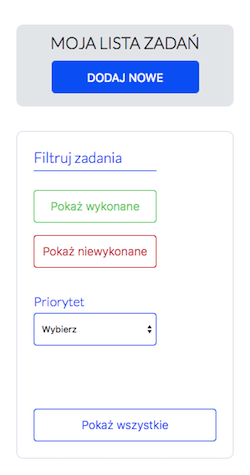
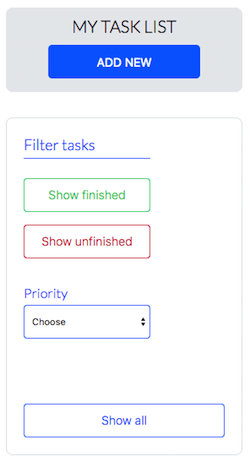
eng version

diff --git a/css/main.css b/css/main.css
@@ -1,3 +1,3 @@
-*{margin:0;padding:0;-webkit-box-sizing:border-box;box-sizing:border-box;outline-style:none;border-color:transparent}body{font-family:'Lato', sans-serif}.container{min-height:100vh;padding:30px 20px;display:-webkit-box;display:-ms-flexbox;display:flex;-webkit-box-pack:start;-ms-flex-pack:start;justify-content:flex-start;-webkit-box-align:center;-ms-flex-align:center;align-items:center;-webkit-box-orient:vertical;-webkit-box-direction:normal;-ms-flex-direction:column;flex-direction:column}@media (min-width: 610px){.container{width:600px;margin:0 auto}}.header{width:100%;height:100px;background:#E8EAED;padding:10px;border-radius:8px;display:-webkit-box;display:-ms-flexbox;display:flex;-webkit-box-orient:vertical;-webkit-box-direction:normal;-ms-flex-direction:column;flex-direction:column;-webkit-box-align:center;-ms-flex-align:center;align-items:center}.header-accordion{position:relative}.header-accordion:after{content:"";display:block;width:100%;height:10px;background-color:#E8EAED;position:absolute;bottom:0;left:0;z-index:10}.header h1{font-weight:300;text-transform:uppercase;font-size:20px;margin-bottom:10px}.header button{display:inline-block;border-radius:5px;height:40px;width:180px;text-transform:uppercase;font-size:14px;-webkit-transition:0.5s all;transition:0.5s all;cursor:pointer}.header button:hover{-webkit-box-shadow:0 5px 6px -3px rgba(0,107,255,0.3);box-shadow:0 5px 6px -3px rgba(0,107,255,0.3)}.btn-dark-blue{background-color:#006BFF;color:white;border:none}.btn-light-blue{border:1px solid #006BFF;background-color:white;color:#006BFF}@media (min-width: 550px){.header{-webkit-box-orient:horizontal;-webkit-box-direction:normal;-ms-flex-direction:row;flex-direction:row;-webkit-box-pack:justify;-ms-flex-pack:justify;justify-content:space-between;padding:10px 30px}.header h1{font-size:25px}}@media (min-width: 600px){.header h1{font-size:28px}}.form{width:100%;border-radius:0 0 8px 8px;position:relative;font-weight:300;overflow:hidden;max-height:0;padding-left:10px;padding-right:10px;-webkit-transition:0.3s ease-out max-height, 0.3s padding;transition:0.3s ease-out max-height, 0.3s padding}.form textarea{display:inline-block;margin-bottom:10px}.priority-box{display:-webkit-box;display:-ms-flexbox;display:flex;-webkit-box-orient:vertical;-webkit-box-direction:normal;-ms-flex-direction:column;flex-direction:column;margin-left:26px}.form label{color:#616161;font-size:15px;position:relative;cursor:pointer}.form label[for="task-input"],.form label[for="date-input"],.form label[for="textarea-input"]{position:absolute;left:-99999px}.form label[for*="-input"]{margin:2px 0}.form input[name="form-priority"]{margin:5px 0 5px 0;opacity:1;position:absolute;left:-23px;top:-2px}.form input[name="form-priority"]:before{content:'';height:6px;width:6px;position:absolute}.form input[name="form-priority"]:after{content:'';height:18px;width:18px;border-radius:50%;border:0.5px solid #616161;background:white;position:absolute;top:-3px;left:-3px;display:block}.form input[name="form-priority"]:checked:before{content:'';height:8px;width:8px;border-radius:50%;border:0.5px solid white;background:white;position:absolute;top:2px;left:2px;opacity:1;z-index:1;display:inline-block}.form input[name="form-priority"]:checked:after{content:'';height:18px;width:18px;border-radius:50%;border:0.5px solid #006BFF;background:#006BFF;position:absolute;top:-3px;left:-3px;display:inline-block}#task-input,#date-input,#textarea-input{margin-top:20px;border-radius:5px;border:1px solid #E1E5EC;-webkit-transition:0.5s all;transition:0.5s all;font-size:14px;font-family:'Lato', sans-serif;color:black;font-weight:300;padding-left:5px}#task-input::-webkit-input-placeholder,#date-input::-webkit-input-placeholder,#textarea-input::-webkit-input-placeholder{color:rgba(97,97,97,0.5)}#task-input:-ms-input-placeholder,#date-input:-ms-input-placeholder,#textarea-input:-ms-input-placeholder{color:rgba(97,97,97,0.5)}#task-input::-ms-input-placeholder,#date-input::-ms-input-placeholder,#textarea-input::-ms-input-placeholder{color:rgba(97,97,97,0.5)}#task-input::placeholder,#date-input::placeholder,#textarea-input::placeholder{color:rgba(97,97,97,0.5)}#task-input:focus,#date-input:focus,#textarea-input:focus{border:1px solid #006BFF;-webkit-box-shadow:0 0 2px #006BFF;box-shadow:0 0 2px #006BFF}#task-input,#date-input{height:35px}#task-input,#textarea-input{width:100%}#textarea-input{height:80px;resize:none}.form p{margin-top:20px;margin-bottom:16px;border-bottom:1px solid #E1E5EC;width:150px;height:26px;color:#616161;font-size:16px}.form-bottom{display:-webkit-box;display:-ms-flexbox;display:flex;-webkit-box-orient:vertical;-webkit-box-direction:normal;-ms-flex-direction:column;flex-direction:column;-webkit-box-align:center;-ms-flex-align:center;align-items:center;min-height:120px}#form-submitBtn{display:inline-block;height:40px;width:180px;border:1px solid #616161;background-color:#616161;color:white;-webkit-transition:0.5s background-color, color, border;transition:0.5s background-color, color, border;font-size:14px;border-radius:5px;text-transform:uppercase;cursor:pointer}#form-submitBtn:active{background-color:white;color:#616161;border:none;-webkit-box-shadow:0 0 5px #616161;box-shadow:0 0 5px #616161}#form-submitBtnfocus{outline:1px solid #616161}#error-message{color:red;font-size:14px;width:100%;min-height:120px;display:-webkit-box;display:-ms-flexbox;display:flex;-webkit-box-pack:start;-ms-flex-pack:start;justify-content:flex-start;-webkit-box-align:start;-ms-flex-align:start;align-items:flex-start;padding:10px}@media (min-width: 400px){.form{padding-left:20px;padding-right:20px}}@media (min-width: 500px){#task-input,#date-input,#textarea-input{font-size:16px}}.filters{width:100%;height:400px;display:-webkit-box;display:-ms-flexbox;display:flex;-webkit-box-orient:vertical;-webkit-box-direction:normal;-ms-flex-direction:column;flex-direction:column;padding:20px;border:1px solid #E1E5EC;border-radius:8px;margin-top:30px}.filters .filters-title{color:#006BFF;font-weight:300;font-size:18px;border-bottom:1px solid #006BFF;width:150px;height:28px}.filters-row-1{height:10%}.filters-row-2{height:75%;display:-webkit-box;display:-ms-flexbox;display:flex;-webkit-box-orient:vertical;-webkit-box-direction:normal;-ms-flex-direction:column;flex-direction:column}.filters-row-3{height:15%;display:-webkit-box;display:-ms-flexbox;display:flex;-webkit-box-pack:start;-ms-flex-pack:start;justify-content:flex-start;-webkit-box-align:end;-ms-flex-align:end;align-items:flex-end}.filters-row-2-btns{height:300px;display:-webkit-box;display:-ms-flexbox;display:flex;-webkit-box-orient:vertical;-webkit-box-direction:normal;-ms-flex-direction:column;flex-direction:column}.filter_priority{height:100%;display:-webkit-box;display:-ms-flexbox;display:flex;-webkit-box-orient:vertical;-webkit-box-direction:normal;-ms-flex-direction:column;flex-direction:column}.filters-priority-title{color:#006BFF;font-weight:300;font-size:16px}.custom-select{width:150px;height:40px;background:transparent;border-radius:4px;font-size:14px;font-weight:100;border:1px solid #006BFF;margin-top:5px}.custom-select select{width:100%;height:100%;background:white}.filters button{width:150px;height:40px;background:white;border-radius:4px;font-size:14px;font-weight:100;-webkit-transition:0.3s all;transition:0.3s all}.filter-done-btn,.filter-undone-btn{margin-top:15px;margin-right:15px}.filter-done-btn{color:#00CF6C;border:1px solid #00CF6C}.filter-done-btn:hover{color:white;background:#00CF6C;-webkit-box-shadow:0 5px 6px -3px rgba(0,207,108,0.3);box-shadow:0 5px 6px -3px rgba(0,207,108,0.3)}.filter-done-btn:active{background:#03ff86}.filter-undone-btn{color:#D4002E;border:1px solid #D4002E}.filter-undone-btn:hover{color:white;background:#D4002E;-webkit-box-shadow:0 5px 6px -3px rgba(212,0,46,0.3);box-shadow:0 5px 6px -3px rgba(212,0,46,0.3)}.filter-undone-btn:active{background:#ff083e}.filters .filters-reset{width:320px;color:#006BFF;border:1px solid #006BFF}.filters .filters-reset:hover{color:white;background:#006BFF;-webkit-box-shadow:0 5px 6px -3px rgba(0,107,255,0.3);box-shadow:0 5px 6px -3px rgba(0,107,255,0.3)}.filters .filters-reset:active{background:#3389ff}@media (min-width: 400px){.filters-row-3{-webkit-box-pack:center;-ms-flex-pack:center;justify-content:center}}@media (min-width: 450px){.filters{height:350px}.filters-row-1{height:15%}.filters-row-2{height:65%}.filters-row-3{height:20%}.filters-row-2-btns{height:130px;-webkit-box-orient:horizontal;-webkit-box-direction:normal;-ms-flex-direction:row;flex-direction:row;-webkit-box-pack:start;-ms-flex-pack:start;justify-content:flex-start}}@media (min-width: 600px){.filters .filters-title{font-size:19px}.filters-row-2{-webkit-box-orient:horizontal;-webkit-box-direction:normal;-ms-flex-direction:row;flex-direction:row;-webkit-box-pack:justify;-ms-flex-pack:justify;justify-content:space-between}.filter-done-btn,.filter-undone-btn{margin-top:25px}.filters{height:300px}}.list{width:100%;display:-webkit-box;display:-ms-flexbox;display:flex;-webkit-box-orient:vertical;-webkit-box-direction:normal;-ms-flex-direction:column;flex-direction:column;padding:20px 10px;border:1px solid #E1E5EC;border-radius:8px;margin-top:30px}.list button{width:150px;height:40px;background:white;border-radius:4px;font-size:14px;font-weight:100;-webkit-transition:0.3s all;transition:0.3s all}.taskList{margin:30px 0 50px 0}.taskList-title{color:#006BFF;font-weight:300;font-size:18px;border-bottom:1px solid #006BFF;width:150px;height:28px;margin-left:10px}.taskList li button{width:30px;height:35px;color:transparent}.taskList li{list-style:none}.taskList li .task-delete{border:1px solid #D4002E;position:relative;-webkit-transition:0.3s all;transition:0.3s all}.taskList li .task-delete .fa-minus{position:absolute;color:#D4002E;left:50%;bottom:50%;-webkit-transform:translate(-50%, 60%);transform:translate(-50%, 60%)}.taskList li .task-delete:hover{background:#D4002E;-webkit-box-shadow:0 5px 6px -3px rgba(212,0,46,0.3);box-shadow:0 5px 6px -3px rgba(212,0,46,0.3)}.taskList li .task-delete:hover .fa-minus{color:white}.taskList li .task-delete:active{background:#ff083e}.taskList li .task-complete{border:1px solid #00CF6C;position:relative;-webkit-transition:0.3s all;transition:0.3s all;margin-right:5px}.taskList li .task-complete .fa-check{position:absolute;color:#00CF6C;left:50%;bottom:50%;-webkit-transform:translate(-50%, 40%);transform:translate(-50%, 40%)}.taskList li .task-complete:hover{background:#00CF6C;-webkit-box-shadow:0 5px 6px -3px rgba(0,207,108,0.3);box-shadow:0 5px 6px -3px rgba(0,207,108,0.3)}.taskList li .task-complete:hover .fa-check{color:white}.taskList li .task-complete:active{background:#03ff86}.taskList li .task-show{position:relative;border:1px solid #d1d7e2;-webkit-transition:0.3s all;transition:0.3s all;margin-right:5px}.taskList li .task-show .task-show-dots{color:#616161;font-weight:900;display:block;position:absolute;left:50%;bottom:50%;-webkit-transform:translate(-50%, 30%);transform:translate(-50%, 30%)}.taskList li .task-show:hover{background:#E1E5EC;-webkit-box-shadow:0 5px 6px -3px rgba(225,229,236,0.5);box-shadow:0 5px 6px -3px rgba(225,229,236,0.5)}.taskList li .task-show:hover .task-show-dots{color:white}.taskList li .task-show:active{background:#7b7b7b}.task-head-panel{height:60px;display:-webkit-box;display:-ms-flexbox;display:flex;-webkit-box-pack:justify;-ms-flex-pack:justify;justify-content:space-between;-webkit-box-align:center;-ms-flex-align:center;align-items:center}.task-descr-panel{max-height:0;overflow:hidden;-webkit-transition:max-height 0.2s ease-out;transition:max-height 0.2s ease-out}.accordion-list-active{-webkit-transition:0.3s;transition:0.3s}.task-description{display:-webkit-box;display:-ms-flexbox;display:flex;-webkit-box-pack:start;-ms-flex-pack:start;justify-content:flex-start;-webkit-box-align:center;-ms-flex-align:center;align-items:center;-ms-flex-wrap:wrap;flex-wrap:wrap;margin:10px 15% 10px 7%;padding:10px}.task-name{font-size:15px;font-weight:400}.task-date{font-size:12px;font-weight:300}.task-priority{font-size:17px;color:#006BFF;font-weight:700;margin-right:10px}.li-col-1,.li-col-3,.li-col-4,.li-col-5{max-width:15%}.li-col-2{width:40%;display:-webkit-box;display:-ms-flexbox;display:flex;-webkit-box-orient:vertical;-webkit-box-direction:normal;-ms-flex-direction:column;flex-direction:column;-webkit-box-flex:1;-ms-flex-positive:1;flex-grow:1;border-bottom:1px solid #E1E5EC}.li-col-2 .first-row{display:-webkit-box;display:-ms-flexbox;display:flex;-webkit-box-pack:justify;-ms-flex-pack:justify;justify-content:space-between}.task-description{font-size:14px;font-weight:300;margin:5px 0 5px 26px}.task-id{display:none}.li-remove-btns{display:-webkit-box;display:-ms-flexbox;display:flex;-webkit-box-orient:vertical;-webkit-box-direction:normal;-ms-flex-direction:column;flex-direction:column;margin-top:10px;margin-left:10px}.removeFinishedBtn,.removeAllBtn{color:#D4002E;border:1px solid #D4002E;overflow:hidden}.removeFinishedBtn:hover,.removeAllBtn:hover{color:white;background:#D4002E;-webkit-box-shadow:0 5px 6px -3px rgba(212,0,46,0.3);box-shadow:0 5px 6px -3px rgba(212,0,46,0.3)}.removeFinishedBtn:active,.removeAllBtn:active{background:#ff083e}.removeFinishedBtn{margin-bottom:10px}.done .li-col-2,.done .li-col-3 .task-priority{color:rgba(0,0,0,0.2)}@media (min-width: 400px){.list{padding-left:20px;padding-right:20px}.taskList-title{margin-left:0}}@media (min-width: 450px){.li-remove-btns{margin-left:0}.li-remove-btns{-webkit-box-orient:horizontal;-webkit-box-direction:normal;-ms-flex-direction:row;flex-direction:row;-webkit-box-pack:justify;-ms-flex-pack:justify;justify-content:space-between}}@media (min-width: 500px){.task-name{font-size:16px}.task-date{font-size:13px}}@media (min-width: 550px){.task-name{font-size:17px}}@media (min-width: 600px){.taskList-title{font-size:19px}.taskList li button{width:40px;height:40px}}.accordion{display:block;padding-top:10px;padding-bottom:10px;border:1px solid #E1E5EC}.hidden{display:none}li.hidden-always{display:none}
+*{margin:0;padding:0;-webkit-box-sizing:border-box;box-sizing:border-box;outline-style:none;border-color:transparent}body{font-family:'Lato', sans-serif}.container{min-height:100vh;padding:30px 20px;display:-webkit-box;display:-ms-flexbox;display:flex;-webkit-box-pack:start;-ms-flex-pack:start;justify-content:flex-start;-webkit-box-align:center;-ms-flex-align:center;align-items:center;-webkit-box-orient:vertical;-webkit-box-direction:normal;-ms-flex-direction:column;flex-direction:column}@media (min-width: 610px){.container{width:600px;margin:0 auto}}.header{width:100%;height:100px;background:#E8EAED;padding:10px;border-radius:8px;display:-webkit-box;display:-ms-flexbox;display:flex;-webkit-box-orient:vertical;-webkit-box-direction:normal;-ms-flex-direction:column;flex-direction:column;-webkit-box-align:center;-ms-flex-align:center;align-items:center}.header-accordion{position:relative}.header-accordion:after{content:"";display:block;width:100%;height:10px;background-color:#E8EAED;position:absolute;bottom:0;left:0;z-index:10}.header h1{font-weight:300;text-transform:uppercase;font-size:20px;margin-bottom:10px}.header button{display:inline-block;border-radius:5px;height:40px;width:180px;text-transform:uppercase;font-size:14px;-webkit-transition:0.5s all;transition:0.5s all;cursor:pointer}.header button:hover{-webkit-box-shadow:0 5px 6px -3px rgba(0,107,255,0.3);box-shadow:0 5px 6px -3px rgba(0,107,255,0.3)}.btn-dark-blue{background-color:#006BFF;color:white;border:none}.btn-light-blue{border:1px solid #006BFF;background-color:white;color:#006BFF}@media (min-width: 550px){.header{-webkit-box-orient:horizontal;-webkit-box-direction:normal;-ms-flex-direction:row;flex-direction:row;-webkit-box-pack:justify;-ms-flex-pack:justify;justify-content:space-between;padding:10px 30px}.header h1{font-size:25px}}@media (min-width: 600px){.header h1{font-size:28px}}.form{width:100%;border-radius:0 0 8px 8px;position:relative;font-weight:300;overflow:hidden;max-height:0;padding-left:10px;padding-right:10px;-webkit-transition:0.3s ease-out max-height, 0.3s padding;transition:0.3s ease-out max-height, 0.3s padding}.form textarea{display:inline-block;margin-bottom:10px}.priority-box{display:-webkit-box;display:-ms-flexbox;display:flex;-webkit-box-orient:vertical;-webkit-box-direction:normal;-ms-flex-direction:column;flex-direction:column;margin-left:26px}.form label{color:#616161;font-size:15px;position:relative;cursor:pointer}.form label[for="task-input"],.form label[for="date-input"],.form label[for="textarea-input"]{position:absolute;left:-99999px}.form label[for*="-input"]{margin:2px 0}.form input[name="form-priority"]{margin:5px 0 5px 0;opacity:1;position:absolute;left:-23px;top:-2px}.form input[name="form-priority"]:before{content:'';height:6px;width:6px;position:absolute}.form input[name="form-priority"]:after{content:'';height:18px;width:18px;border-radius:50%;border:0.5px solid #616161;background:white;position:absolute;top:-3px;left:-3px;display:block}.form input[name="form-priority"]:checked:before{content:'';height:8px;width:8px;border-radius:50%;border:0.5px solid white;background:white;position:absolute;top:2px;left:2px;opacity:1;z-index:1;display:inline-block}.form input[name="form-priority"]:checked:after{content:'';height:18px;width:18px;border-radius:50%;border:0.5px solid #006BFF;background:#006BFF;position:absolute;top:-3px;left:-3px;display:inline-block}#task-input,#date-input,#textarea-input{margin-top:20px;border-radius:5px;border:1px solid #E1E5EC;-webkit-transition:0.5s all;transition:0.5s all;font-size:14px;font-family:'Lato', sans-serif;color:black;font-weight:300;padding-left:5px}#task-input::-webkit-input-placeholder,#date-input::-webkit-input-placeholder,#textarea-input::-webkit-input-placeholder{color:rgba(97,97,97,0.5)}#task-input:-ms-input-placeholder,#date-input:-ms-input-placeholder,#textarea-input:-ms-input-placeholder{color:rgba(97,97,97,0.5)}#task-input::-ms-input-placeholder,#date-input::-ms-input-placeholder,#textarea-input::-ms-input-placeholder{color:rgba(97,97,97,0.5)}#task-input::placeholder,#date-input::placeholder,#textarea-input::placeholder{color:rgba(97,97,97,0.5)}#task-input:focus,#date-input:focus,#textarea-input:focus{border:1px solid #006BFF;-webkit-box-shadow:0 0 2px #006BFF;box-shadow:0 0 2px #006BFF}#task-input,#date-input{height:35px}#task-input,#textarea-input{width:100%}#textarea-input{height:80px;resize:none}.form p{margin-top:20px;margin-bottom:16px;border-bottom:1px solid #E1E5EC;width:150px;height:26px;color:#616161;font-size:16px}.form-bottom{display:-webkit-box;display:-ms-flexbox;display:flex;-webkit-box-orient:vertical;-webkit-box-direction:normal;-ms-flex-direction:column;flex-direction:column;-webkit-box-align:center;-ms-flex-align:center;align-items:center;min-height:120px}#form-submitBtn{display:inline-block;height:40px;width:180px;border:1px solid #616161;background-color:#616161;color:white;-webkit-transition:0.5s background-color, color, border;transition:0.5s background-color, color, border;font-size:14px;border-radius:5px;text-transform:uppercase;cursor:pointer}#form-submitBtn:active{background-color:white;color:#616161;border:none;-webkit-box-shadow:0 0 5px #616161;box-shadow:0 0 5px #616161}#form-submitBtnfocus{outline:1px solid #616161}#error-message{color:red;font-size:14px;width:100%;min-height:120px;display:-webkit-box;display:-ms-flexbox;display:flex;-webkit-box-pack:start;-ms-flex-pack:start;justify-content:flex-start;-webkit-box-align:start;-ms-flex-align:start;align-items:flex-start;padding:10px}@media (min-width: 400px){.form{padding-left:20px;padding-right:20px}}@media (min-width: 500px){#task-input,#date-input,#textarea-input{font-size:16px}}.filters{width:100%;height:400px;display:-webkit-box;display:-ms-flexbox;display:flex;-webkit-box-orient:vertical;-webkit-box-direction:normal;-ms-flex-direction:column;flex-direction:column;padding:20px;border:1px solid #E1E5EC;border-radius:8px;margin-top:30px}.filters .filters-title{color:#006BFF;font-weight:300;font-size:18px;border-bottom:1px solid #006BFF;width:150px;height:28px}.filters-row-1{height:10%}.filters-row-2{height:75%;display:-webkit-box;display:-ms-flexbox;display:flex;-webkit-box-orient:vertical;-webkit-box-direction:normal;-ms-flex-direction:column;flex-direction:column}.filters-row-3{height:15%;display:-webkit-box;display:-ms-flexbox;display:flex;-webkit-box-pack:start;-ms-flex-pack:start;justify-content:flex-start;-webkit-box-align:end;-ms-flex-align:end;align-items:flex-end}.filters-row-2-btns{height:300px;display:-webkit-box;display:-ms-flexbox;display:flex;-webkit-box-orient:vertical;-webkit-box-direction:normal;-ms-flex-direction:column;flex-direction:column}.filter_priority{height:100%;display:-webkit-box;display:-ms-flexbox;display:flex;-webkit-box-orient:vertical;-webkit-box-direction:normal;-ms-flex-direction:column;flex-direction:column}.filters-priority-title{color:#006BFF;font-weight:300;font-size:16px}.custom-select{width:150px;height:40px;background:transparent;border-radius:4px;font-size:14px;font-weight:100;border:1px solid #006BFF;margin-top:5px}.custom-select select{width:100%;height:100%;background:white}.filters button{width:150px;height:40px;background:white;border-radius:4px;font-size:14px;font-weight:100;-webkit-transition:0.3s all;transition:0.3s all}.filter-done-btn,.filter-undone-btn{margin-top:15px;margin-right:15px}.filter-done-btn{color:#00CF6C;border:1px solid #00CF6C}.filter-done-btn:hover{color:white;background:#00CF6C;-webkit-box-shadow:0 5px 6px -3px rgba(0,207,108,0.3);box-shadow:0 5px 6px -3px rgba(0,207,108,0.3)}.filter-done-btn:active{background:#03ff86}.filter-undone-btn{color:#D4002E;border:1px solid #D4002E}.filter-undone-btn:hover{color:white;background:#D4002E;-webkit-box-shadow:0 5px 6px -3px rgba(212,0,46,0.3);box-shadow:0 5px 6px -3px rgba(212,0,46,0.3)}.filter-undone-btn:active{background:#ff083e}.filters .filters-reset{width:320px;color:#006BFF;border:1px solid #006BFF}.filters .filters-reset:hover{color:white;background:#006BFF;-webkit-box-shadow:0 5px 6px -3px rgba(0,107,255,0.3);box-shadow:0 5px 6px -3px rgba(0,107,255,0.3)}.filters .filters-reset:active{background:#3389ff}@media (min-width: 400px){.filters-row-3{-webkit-box-pack:center;-ms-flex-pack:center;justify-content:center}}@media (min-width: 450px){.filters{height:350px}.filters-row-1{height:15%}.filters-row-2{height:65%}.filters-row-3{height:20%}.filters-row-2-btns{height:130px;-webkit-box-orient:horizontal;-webkit-box-direction:normal;-ms-flex-direction:row;flex-direction:row;-webkit-box-pack:start;-ms-flex-pack:start;justify-content:flex-start}}@media (min-width: 600px){.filters .filters-title{font-size:19px}.filters-row-2{-webkit-box-orient:horizontal;-webkit-box-direction:normal;-ms-flex-direction:row;flex-direction:row;-webkit-box-pack:justify;-ms-flex-pack:justify;justify-content:space-between}.filter-done-btn,.filter-undone-btn{margin-top:25px}.filters{height:300px}}.list{width:100%;display:-webkit-box;display:-ms-flexbox;display:flex;-webkit-box-orient:vertical;-webkit-box-direction:normal;-ms-flex-direction:column;flex-direction:column;padding:20px 10px;border:1px solid #E1E5EC;border-radius:8px;margin-top:30px}.list button{width:150px;height:40px;background:white;border-radius:4px;font-size:14px;font-weight:100;-webkit-transition:0.3s all;transition:0.3s all}.taskList{margin:30px 0 50px 0}.taskList-title{color:#006BFF;font-weight:300;font-size:18px;border-bottom:1px solid #006BFF;width:150px;height:28px;margin-left:10px}.taskList li button{width:30px;height:35px;color:transparent}.taskList li{list-style:none}.taskList li .task-delete{border:1px solid #D4002E;position:relative;-webkit-transition:0.3s all;transition:0.3s all}.taskList li .task-delete .fa-minus{position:absolute;color:#D4002E;left:50%;bottom:50%;-webkit-transform:translate(-50%, 60%);transform:translate(-50%, 60%)}.taskList li .task-delete:hover{background:#D4002E;-webkit-box-shadow:0 5px 6px -3px rgba(212,0,46,0.3);box-shadow:0 5px 6px -3px rgba(212,0,46,0.3)}.taskList li .task-delete:hover .fa-minus{color:white}.taskList li .task-delete:active{background:#ff083e}.taskList li .task-complete{border:1px solid #00CF6C;position:relative;-webkit-transition:0.3s all;transition:0.3s all;margin-right:5px}.taskList li .task-complete .fa-check{position:absolute;color:#00CF6C;left:50%;bottom:50%;-webkit-transform:translate(-50%, 40%);transform:translate(-50%, 40%)}.taskList li .task-complete:hover{background:#00CF6C;-webkit-box-shadow:0 5px 6px -3px rgba(0,207,108,0.3);box-shadow:0 5px 6px -3px rgba(0,207,108,0.3)}.taskList li .task-complete:hover .fa-check{color:white}.taskList li .task-complete:active{background:#03ff86}.taskList li .task-show{position:relative;border:1px solid #d1d7e2;-webkit-transition:0.3s all;transition:0.3s all;margin-right:5px}.taskList li .task-show .task-show-dots{color:#616161;font-weight:900;display:block;position:absolute;left:50%;bottom:50%;-webkit-transform:translate(-50%, 30%);transform:translate(-50%, 30%)}.taskList li .task-show:hover{background:#E1E5EC;-webkit-box-shadow:0 5px 6px -3px rgba(225,229,236,0.5);box-shadow:0 5px 6px -3px rgba(225,229,236,0.5)}.taskList li .task-show:hover .task-show-dots{color:white}.taskList li .task-show:active{background:#7b7b7b}.task-head-panel{height:60px;display:-webkit-box;display:-ms-flexbox;display:flex;-webkit-box-pack:justify;-ms-flex-pack:justify;justify-content:space-between;-webkit-box-align:center;-ms-flex-align:center;align-items:center}.task-descr-panel{max-height:0;overflow:hidden;-webkit-transition:max-height 0.2s ease-out;transition:max-height 0.2s ease-out}.accordion-list-active{-webkit-transition:0.3s;transition:0.3s}.task-description{display:-webkit-box;display:-ms-flexbox;display:flex;-webkit-box-pack:start;-ms-flex-pack:start;justify-content:flex-start;-webkit-box-align:center;-ms-flex-align:center;align-items:center;-ms-flex-wrap:wrap;flex-wrap:wrap;padding:10px;font-size:14px;font-weight:300;margin:5px 0 5px 26px}.task-name{font-size:15px;font-weight:400}.task-date{font-size:12px;font-weight:300}.task-priority{font-size:17px;color:#006BFF;font-weight:700;margin-right:10px}.li-col-1,.li-col-3,.li-col-4,.li-col-5{max-width:15%}.li-col-2{width:40%;display:-webkit-box;display:-ms-flexbox;display:flex;-webkit-box-orient:vertical;-webkit-box-direction:normal;-ms-flex-direction:column;flex-direction:column;-webkit-box-flex:1;-ms-flex-positive:1;flex-grow:1;border-bottom:1px solid #E1E5EC}.li-col-2 .first-row{display:-webkit-box;display:-ms-flexbox;display:flex;-webkit-box-pack:justify;-ms-flex-pack:justify;justify-content:space-between}.task-id{display:none}.li-remove-btns{display:-webkit-box;display:-ms-flexbox;display:flex;-webkit-box-orient:vertical;-webkit-box-direction:normal;-ms-flex-direction:column;flex-direction:column;margin-top:10px;margin-left:10px}.removeFinishedBtn,.removeAllBtn{color:#D4002E;border:1px solid #D4002E;overflow:hidden}.removeFinishedBtn:hover,.removeAllBtn:hover{color:white;background:#D4002E;-webkit-box-shadow:0 5px 6px -3px rgba(212,0,46,0.3);box-shadow:0 5px 6px -3px rgba(212,0,46,0.3)}.removeFinishedBtn:active,.removeAllBtn:active{background:#ff083e}.removeFinishedBtn{margin-bottom:10px}.done .li-col-2,.done .li-col-3 .task-priority{color:rgba(0,0,0,0.2)}@media (min-width: 400px){.list{padding-left:20px;padding-right:20px}.taskList-title{margin-left:0}}@media (min-width: 450px){.li-remove-btns{margin-left:0}.li-remove-btns{-webkit-box-orient:horizontal;-webkit-box-direction:normal;-ms-flex-direction:row;flex-direction:row;-webkit-box-pack:justify;-ms-flex-pack:justify;justify-content:space-between}}@media (min-width: 500px){.task-name{font-size:16px}.task-date{font-size:13px}}@media (min-width: 550px){.task-name{font-size:17px}}@media (min-width: 600px){.taskList-title{font-size:19px}.taskList li button{width:40px;height:40px}.task-description{padding:10px 20px}}.accordion{display:block;padding-top:10px;padding-bottom:10px;border:1px solid #E1E5EC}.hidden{display:none}li.hidden-always{display:none}
 
 /*# sourceMappingURL=main.css.map */

diff --git a/js/app.js b/js/app.js
@@ -54,9 +54,9 @@ document.addEventListener('DOMContentLoaded', function() {
 
     // ----- odświeżenie eventów na wszystkich buttonach -----
     function findAllBtns() {
-            findCompleteTaskBtns();
-            findDeleteBtns();
-            findShowDescrBtns();
+        findCompleteTaskBtns();
+        findDeleteBtns();
+        findShowDescrBtns();
     }
 
     // ----- przekazanie tablicy obiektów do stworzenia listy w html -----
@@ -110,7 +110,7 @@ document.addEventListener('DOMContentLoaded', function() {
         let textAreaInput = document.querySelector('#textarea-input');
 
         let error = document.querySelector('#error-message');
-        error.innerText = '';   //musi zostać, believe me :) w razie wątpliwości służę wyjaśnieniem
+        error.innerText = '';
         let formValid = true;
 
         let taskPriority;
@@ -127,12 +127,12 @@ document.addEventListener('DOMContentLoaded', function() {
 
         if (taskInput.value.length <= 0) {
             formValid = false;
-            error.innerText += '- wpisz tytuł zadania \n';
+            error.innerText += "- enter a task's title \n";
         }
 
         if (taskInput.value.length > 25) {
             formValid = false;
-            error.innerText += '- tytuł zadania nie może być dłuższy niż 25 znaków  \n';
+            error.innerText += "- a title can't be longer than 25 characters \n";
         }
 
 
@@ -146,7 +146,7 @@ document.addEventListener('DOMContentLoaded', function() {
             }
         }
         if (checkboxCheckedNumber === 0) {
-            error.innerText += '- wybierz priorytet \n';
+            error.innerText += '- please choose priority \n';
             formValid = false;
         }
 
@@ -155,14 +155,13 @@ document.addEventListener('DOMContentLoaded', function() {
 
         if (textAreaInput.value.length > 100) {
             formValid = false;
-            error.innerText += '- opis zadania nie może być dłuższy niż 100 znaków \n';
+            error.innerText += "- a task's description can't be longer than 100 characters \n";
         }
 
 
         //JESLI WALIDACJA JEST OK, uruchom funkcje:
 
         if(formValid) {
-
             createNewTaskObject(getTaskId, taskInput.value, dateInput.value, textAreaInput.value, taskPriority);
 
             closeForm();
@@ -214,15 +213,12 @@ document.addEventListener('DOMContentLoaded', function() {
         newArrToLS.push(newTaskObject);
 
         addArrayToLS(newArrToLS);
-
     }
 
 
     //=========================================================
     // ------- BUTTONY - usuwanie pojedynczych tasków --------
 
-
-    // nałożenie eventu usuwania na buttony (funkcja odpalana po każdym odświeżeniu listy z LS)
 
     function findDeleteBtns() {
 
@@ -248,7 +244,6 @@ document.addEventListener('DOMContentLoaded', function() {
         let newArrToLS = taskArray.slice();
 
         for (let j = 0; j < newArrToLS.length; j++) {
-
             if (newArrToLS[j].taskId === id.innerText) {
                 newArrToLS.splice(j, 1);
 
@@ -264,8 +259,6 @@ document.addEventListener('DOMContentLoaded', function() {
     //--------- BUTTONY - oznaczanie wykonanych ------------
 
 
-    // nałożenie eventu wykonania na buttony (funkcja odpalana po każdym odświeżeniu listy z LS)
-
     function findCompleteTaskBtns() {
         let completeTaskBtns = document.querySelectorAll('.task-complete');
 
@@ -277,7 +270,6 @@ document.addEventListener('DOMContentLoaded', function() {
     function markAsCompleted() {
 
         let taskId = this.parentElement.parentElement.parentElement.querySelector('.task-id');
-
         let taskArray = parseJsonFromLS();
 
         //kopia tablicy pobranej z LS
@@ -327,7 +319,6 @@ document.addEventListener('DOMContentLoaded', function() {
     priorities.addEventListener('change', function () {
 
         let priorityOption = this.value.charAt(this.value.length - 1);
-
         let allTasks = taskList.querySelectorAll('li');
 
         if (this.value !== "filter-all") {
@@ -352,9 +343,7 @@ document.addEventListener('DOMContentLoaded', function() {
     }
 
     function showAllTasks (arr) {
-
         for (let i = 0; i < arr.length; i++) {
-
             arr[i].classList.remove('hidden');
         }
     }
@@ -367,11 +356,9 @@ document.addEventListener('DOMContentLoaded', function() {
         let tasks = taskList.querySelectorAll('li');
 
         for (let i = 0; i < tasks.length; i++) {
-
             tasks[i].classList.contains('done') ?
                 tasks[i].classList.remove('hidden') :
                 tasks[i].classList.add('hidden');
-
         }
     });
 
@@ -383,11 +370,9 @@ document.addEventListener('DOMContentLoaded', function() {
         let tasks = taskList.querySelectorAll('li');
 
         for (let i = 0; i < tasks.length; i++) {
-
             tasks[i].classList.contains('done') ?
                 tasks[i].classList.add('hidden') :
                 tasks[i].classList.remove('hidden');
-
         }
     });
 
@@ -398,11 +383,9 @@ document.addEventListener('DOMContentLoaded', function() {
         let tasks = taskList.querySelectorAll('li');
 
         for (let i = 0; i < tasks.length; i++) {
-
             if (tasks[i].classList.contains('hidden')) {
                 tasks[i].classList.remove('hidden');
             }
-
         }
         filterPriorityForm.reset();
     });
@@ -416,7 +399,6 @@ document.addEventListener('DOMContentLoaded', function() {
         let newArrToLS = [];
         addArrayToLS(newArrToLS);
         //przekazuję pustą tablicę do LS i ona jest wczytywana do html
-
     });
 
     //===============================================
@@ -462,9 +444,9 @@ document.addEventListener('DOMContentLoaded', function() {
     }
 
     function changeBtnTxt(btnName) {
-        btnName.innerText = btnName.innerText === "DODAJ NOWE" ?
-            "Zwiń formularz" :
-            "Dodaj nowe"
+        btnName.innerText = btnName.innerText === "ADD NEW" ?
+            "Hide form" :
+            "Add new"
     }
 
     function changeBtnClass(btnName) {

diff --git a/index.html b/index.html
@@ -14,49 +14,49 @@
     <div class="container">
 
         <header class="header">
-            <h1>Moja lista zadań</h1>
-            <button id="addNewTaskBtn" class="btn-dark-blue">Dodaj nowe</button>
+            <h1>My task list</h1>
+            <button id="addNewTaskBtn" class="btn-dark-blue">Add new</button>
         </header>
 
         <section class="form">
 
             <form action="" id="form">
 
-                <label for="task-input">Temat</label>
-                <input type="text" name="form-task" id="task-input" placeholder="Temat">
+                <label for="task-input">Title</label>
+                <input type="text" name="form-task" id="task-input" placeholder="Title">
 
-                <label for="date-input">Termin</label>
-                <input type="date" name="form-date" id="date-input" placeholder="Termin" required>
+                <label for="date-input">Date</label>
+                <input type="date" name="form-date" id="date-input" placeholder="Date" required>
 
-                <p>Wybierz priorytet</p>
+                <p>Priority</p>
                 <div class="priority-box">
                     <label for="p1-input">
                         <input type="radio" name="form-priority" value="1" id="p1-input">
-                        Priorytet 1
+                        1
                     </label>
                     <label for="p2-input">
                         <input type="radio" name="form-priority" value="2" id="p2-input">
-                        Priorytet 2
+                        2
                     </label>
                     <label for="p3-input">
                         <input type="radio" name="form-priority" value="3" id="p3-input">
-                        Priorytet 3
+                        3
                     </label>
                     <label for="p4-input">
                         <input type="radio" name="form-priority" value="4" id="p4-input">
-                        Priorytet 4
+                        4
                     </label>
                     <label for="p5-input">
                         <input type="radio" name="form-priority" value="5" id="p5-input">
-                        Priorytet 5
+                        5
                     </label>
                 </div>
 
-                <label for="textarea-input">Opis zadania</label>
-                <textarea name="form-description" cols="100" rows="3" id="textarea-input" placeholder="Opis zadania"></textarea>
+                <label for="textarea-input">Task description</label>
+                <textarea name="form-description" cols="100" rows="3" id="textarea-input" placeholder="Task description"></textarea>
 
                 <div class="form-bottom">
-                    <button id="form-submitBtn" type="submit">Zapisz zadanie</button>
+                    <button id="form-submitBtn" type="submit">Save</button>
                     <div id="error-message"></div>
                 </div>
 
@@ -66,21 +66,21 @@
         <section class="filters">
 
             <div class="filters-row-1">
-                <h2 class="filters-title">Filtruj zadania</h2>
+                <h2 class="filters-title">Filter tasks</h2>
             </div>
 
             <div class="filters-row-2">
                 <div class="filters-row-2-btns">
-                    <button type="button" id="filter-done-btn" class="filter-done-btn">Pokaż wykonane</button>
-                    <button type="button" id="filter-undone-btn" class="filter-undone-btn">Pokaż niewykonane</button>
+                    <button type="button" id="filter-done-btn" class="filter-done-btn">Show finished</button>
+                    <button type="button" id="filter-undone-btn" class="filter-undone-btn">Show unfinished</button>
                 </div>
 
                 <form action="" id="filter_priority" class="filter_priority">
-                    <label class="filters-priority-title">Priorytet</label>
+                    <label class="filters-priority-title">Priority</label>
 
                     <div class="custom-select">
                         <select name="filter-priority">
-                            <option value="filter-all">Wybierz</option>
+                            <option value="filter-all">Choose</option>
                             <option value="filter-p1">1</option>
                             <option value="filter-p2">2</option>
                             <option value="filter-p3">3</option>
@@ -92,12 +92,12 @@
             </div>
 
             <div class="filters-row-3">
-                <button type="button" id="filters-reset" class="filters-reset">Pokaż wszystkie</button>
+                <button type="button" id="filters-reset" class="filters-reset">Show all</button>
             </div>
         </section>
 
         <section class="list">
-            <h2 id="taskList-title" class="taskList-title">Zadania</h2>
+            <h2 id="taskList-title" class="taskList-title">Tasks</h2>
 
             <ul class="hidden-always">
                 <li id="liToClone" class="hidden-always">
@@ -106,7 +106,6 @@
 
                         <div class="li-col-1">
                             <button class="task-show">
-                                Pokaż szczegóły
                                 <span class="task-show-dots">...</span>
                             </button>
                         </div>
@@ -151,8 +150,8 @@
 
 
             <div class="li-remove-btns">
-                <button id="removeFinishedBtn" class="removeFinishedBtn">Usuń zakończone zadania</button>
-                <button id="removeAllBtn" class="removeAllBtn">Usuń wszystkie zadania</button>
+                <button id="removeFinishedBtn" class="removeFinishedBtn">Delete<br>finished tasks</button>
+                <button id="removeAllBtn" class="removeAllBtn">Delete<br>all tasks</button>
             </div>
         </section>
     </div>

diff --git a/scss/_list.scss b/scss/_list.scss
@@ -151,8 +151,10 @@
   justify-content: flex-start;
   align-items: center;
   flex-wrap: wrap;
-  margin: 10px 15% 10px 7%;
   padding: 10px;
+  font-size: 14px;
+  font-weight: 300;
+  margin: 5px 0 5px 26px;
 }
 
 
@@ -194,12 +196,6 @@
     display: flex;
     justify-content: space-between;
   }
-}
-
-.task-description {
-  font-size: 14px;
-  font-weight: 300;
-  margin: 5px 0 5px 26px;
 }
 
 .task-id {
@@ -257,7 +253,6 @@
 
 @media (min-width: 450px) {
   .li-remove-btns {
-    //width: ;
     margin-left: 0;
   }
 
@@ -292,5 +287,10 @@
     width: 40px;
     height: 40px;
   }
+
+  .task-description {
+    padding: 10px 20px;
+  }
+
 }
 

diff --git a/scss/_form.scss b/scss/_form.scss
@@ -98,7 +98,6 @@
   }
 }
 
-
 #task-input, #date-input, #textarea-input {
   margin-top: 20px;
   border-radius: $radius-form;

diff --git a/README.md b/README.md
@@ -39,7 +39,7 @@ The site is designed with RWD approach, mobile-first.
 
 ## Features
 
-- adding new tasks (with a date, priority and description) by filling in a form sliding down after clicking "Add"
+- adding new tasks (with a date, priority and description) by filling in a form sliding down after clicking "Add new"
 - form validation - before a new task is added to the list the app checks if you have entered a title (not longer than 25 characters), a date and chosen a priority. It is possible to add a task without a descprition but if you do add it, it can't be longer than 100 characters. A date validation is pretty basic right now - you need to enter anything to go through.
 - filters - you can select completed/uncompleted tasks, tasks with a given priority or just show all of them.
 - showing a sliding down task's description by clicking a "More" button
@@ -62,6 +62,7 @@ The site is designed with RWD approach, mobile-first.
 
 
 
+![to-do-list_prev4](./images/to-do-list_prev4.png)![to-do-list_prev4](./images/to-do-list_prev5.png)
 
 
-![to-do-list_prev4](./images/to-do-list_prev4.png)
+
